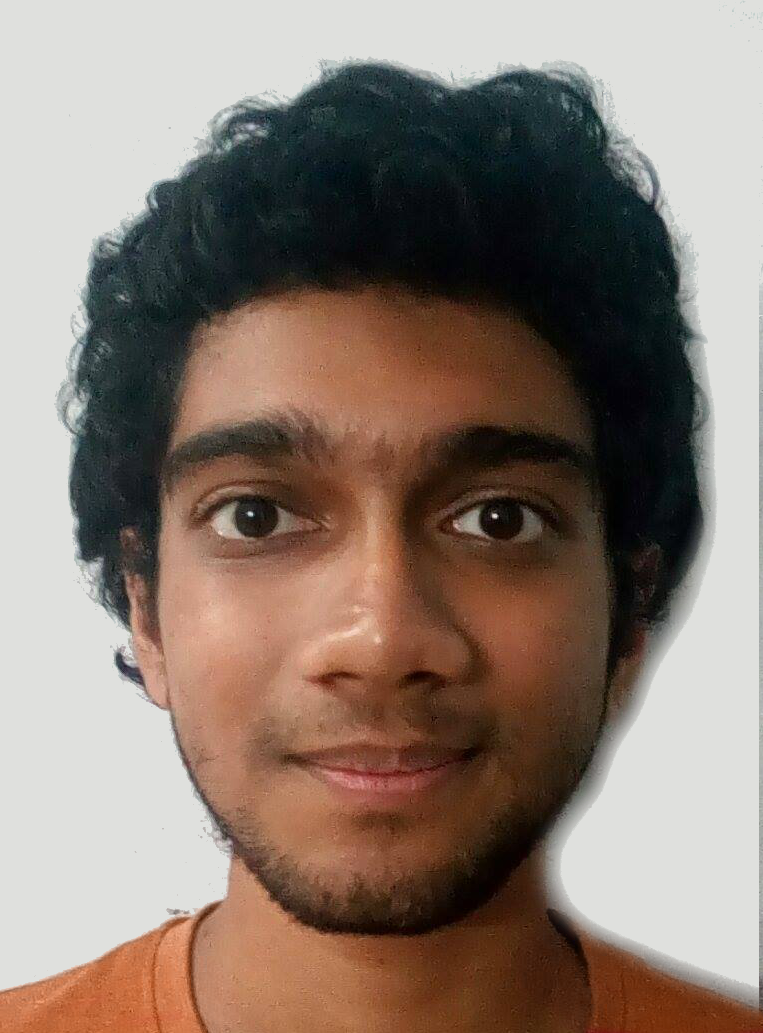
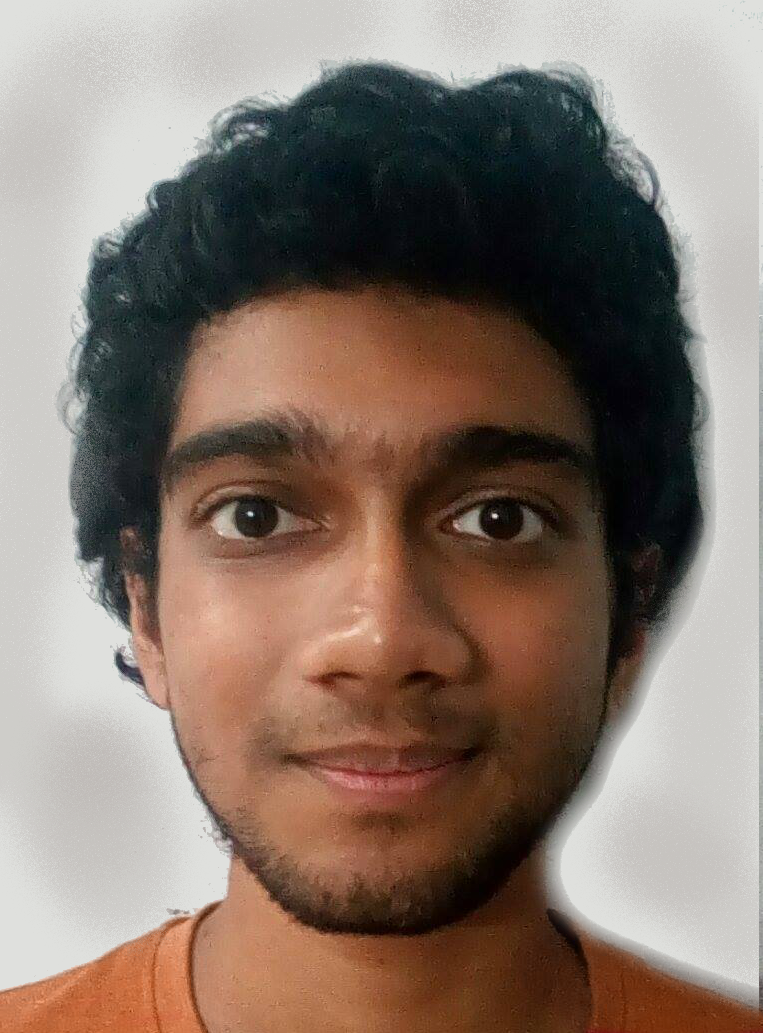
Add few more examples

diff --git a/Code/styletransfer.m b/Code/styletransfer.m
@@ -3,19 +3,20 @@ compute_masks = 1;
 addpath('./grabcut-master');
 addpath('./grabcut-master/bin_graphcuts');
 img_orig = imread('Inputs/face36.png');
-img_style = imread('Inputs/final36_4.png');
+img_style = imread('Inputs/final36_42.png');
 img_orig = imresize(img_orig, [300 230]);
 img_style = imresize(img_style, [300 230]);
 
-figure, imshow(imresize(imread('Inputs/face4.png'), [300 230]));
-figure, imshow(img_orig);
-figure, imshow(img_style);
 % Add a small noise so that patches of same color don't cause issues in
 % grab cut (Same color patch grab cut cannot do anything)
 img_style = img_style + uint8(rand(size(img_style))*5);
 img_style = min(img_style, 255);
 img_orig = img_orig + uint8(rand(size(img_orig))*5);
 img_orig = min(img_orig, 255);
+
+figure, imshow(imresize(imread('Inputs/face42.png'), [300 230]));
+figure, imshow(img_orig);
+figure, imshow(img_style);
 
 if compute_masks == 1
     mask3 = masker(img_style, 1);
